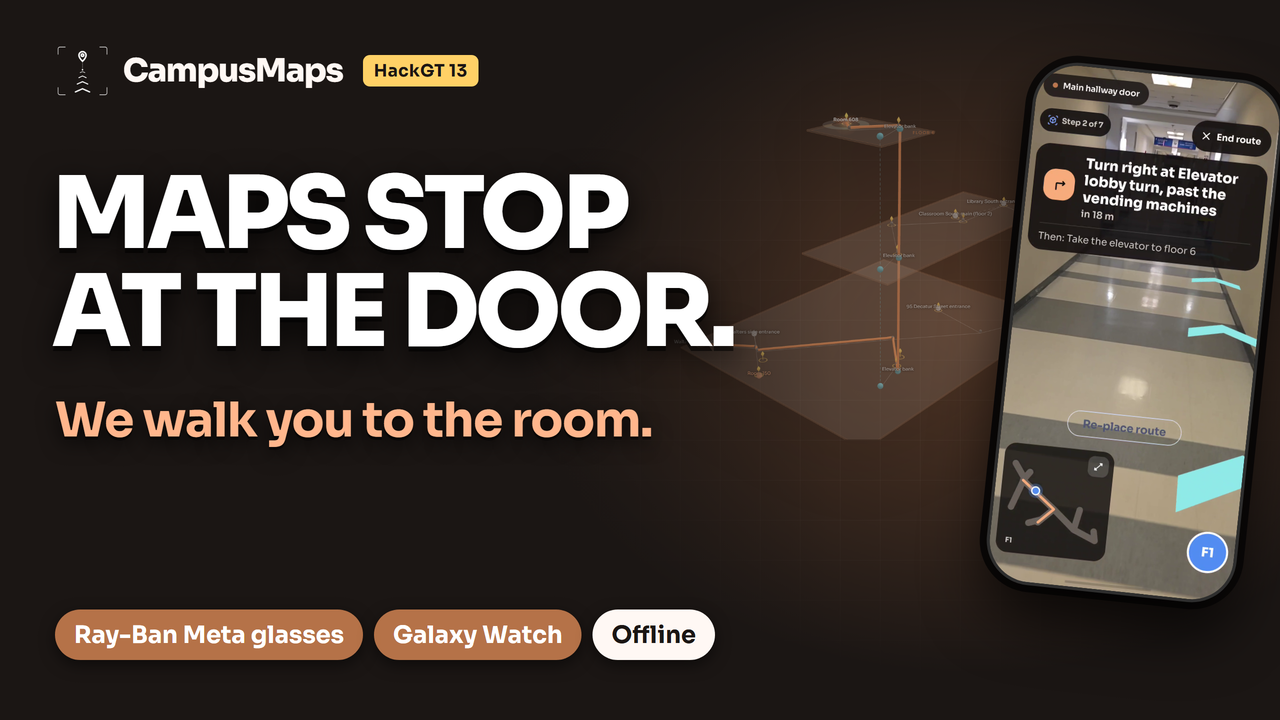
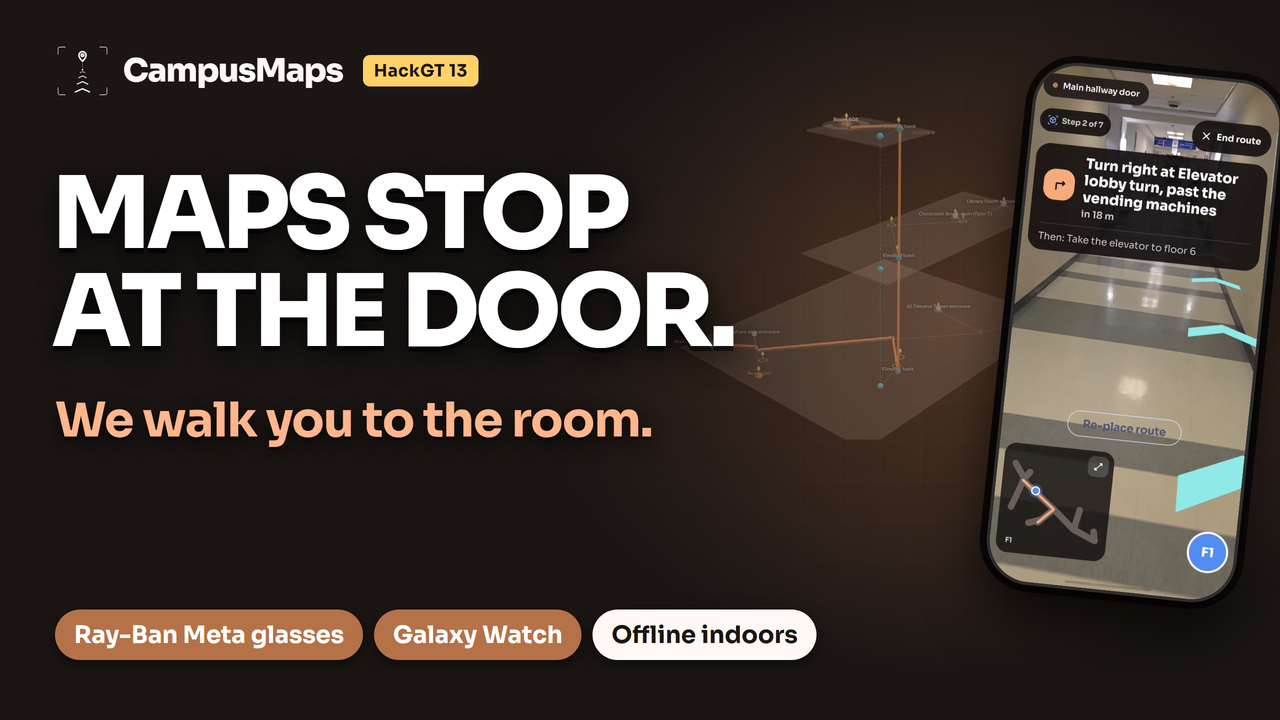
cover, thumbnail: Offline indoors

Changed region(s): [[0.5312, 0.825, 0.6562, 0.9167]]

diff --git a/promo/cover/thumbnail.html b/promo/cover/thumbnail.html
@@ -40,7 +40,7 @@ html,body{margin:0;background:#1b1614}
   <div class="brand"><img src="mark.png" alt=""><b>CampusMaps</b><span class="gold">HackGT 13</span></div>
   <h1 class="hook">MAPS STOP<br>AT THE DOOR.</h1>
   <p class="sub">We walk you to the room.</p>
-  <div class="chips"><span>Ray-Ban Meta glasses</span><span>Galaxy Watch</span><span class="alt">Offline</span></div>
+  <div class="chips"><span>Ray-Ban Meta glasses</span><span>Galaxy Watch</span><span class="alt">Offline indoors</span></div>
 </div>
 </body>
 </html>

diff --git a/promo/cover/cover.html b/promo/cover/cover.html
@@ -40,7 +40,7 @@ html,body{margin:0;background:#1b1614}
   </div>
   <div class="tag">
     <span class="on">Phone AR</span><span class="on">Ray-Ban Meta glasses</span><span class="on">Galaxy Watch</span>
-    <span>Offline</span><span>Georgia Tech + Georgia State</span>
+    <span>Offline indoors</span><span>Georgia Tech + Georgia State</span>
   </div>
   <div class="foot">HackGT 13 · <b>The Lighthouse Laboratory</b></div>
   <div class="badge"><i></i>No network indoors · everything on the phone</div>
